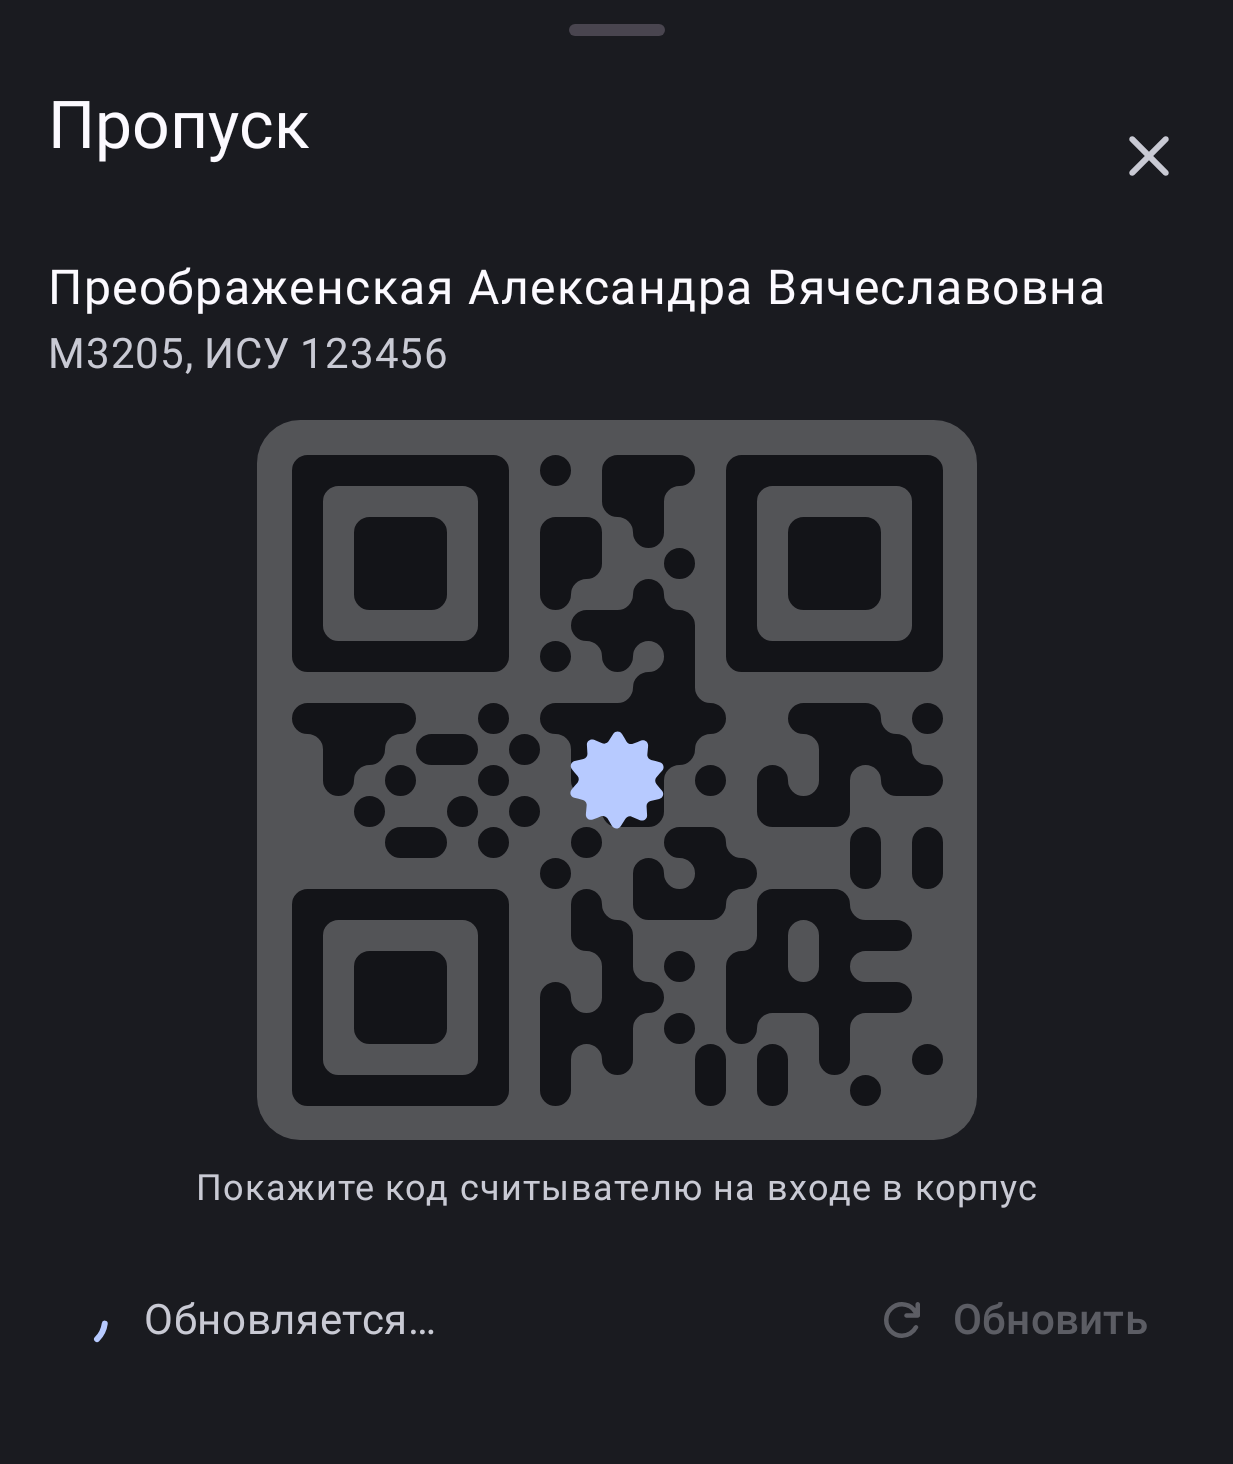
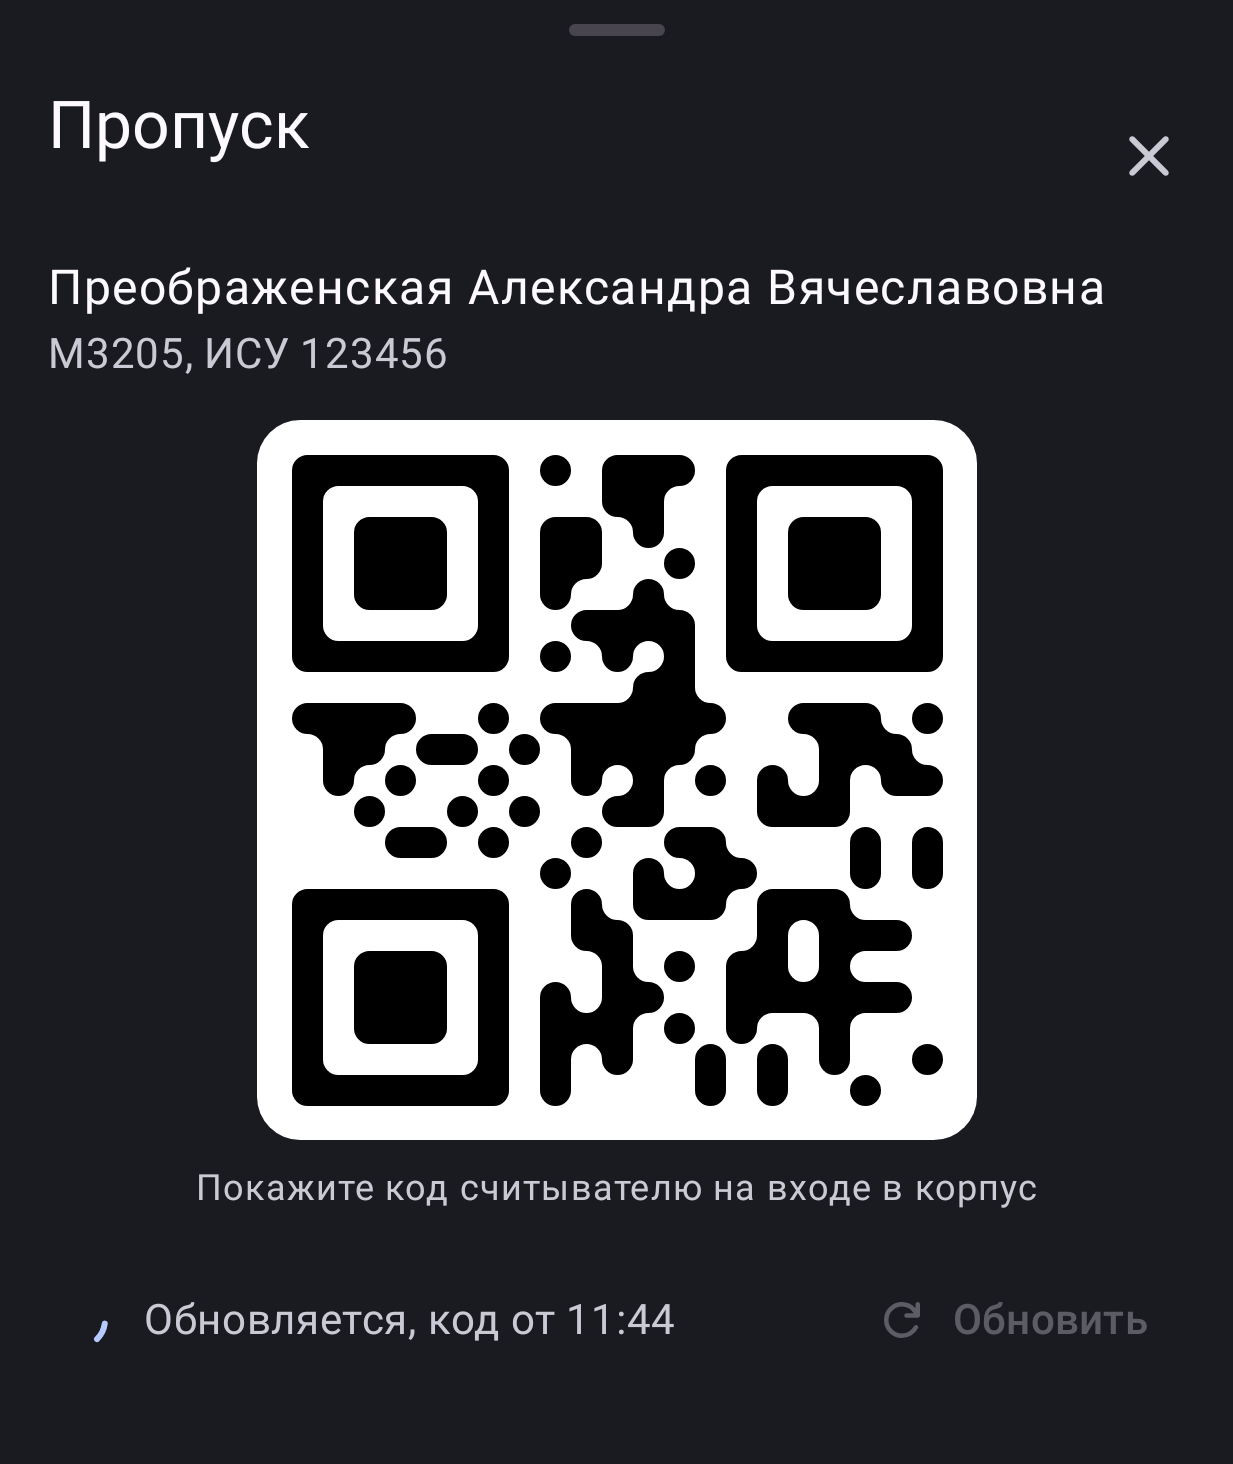
Keep the QR pass readable while it refreshes

Changed region(s): [[0.1849, 0.2766, 0.8013, 0.7992], [0.4623, 0.8914, 0.5547, 0.9221], [0.339, 0.8914, 0.4315, 0.9221]]

diff --git a/shared/feature-qr/src/androidMain/kotlin/dev/alllexey/itmowidgets/feature/qr/ui/QrPassSheet.kt b/shared/feature-qr/src/androidMain/kotlin/dev/alllexey/itmowidgets/feature/qr/ui/QrPassSheet.kt
@@ -24,7 +24,6 @@ import androidx.compose.runtime.key
 import androidx.compose.runtime.remember
 import androidx.compose.ui.Alignment
 import androidx.compose.ui.Modifier
-import androidx.compose.ui.draw.alpha
 import androidx.compose.ui.graphics.graphicsLayer
 import androidx.compose.ui.layout.layout
 import androidx.compose.ui.platform.testTag
@@ -38,7 +37,6 @@ import androidx.compose.ui.unit.dp
 import dev.alllexey.itmowidgets.core.text.asString
 import dev.alllexey.itmowidgets.core.text.toUiText
 import dev.alllexey.itmowidgets.designsystem.components.controls.ItmoActivityIndicator
-import dev.alllexey.itmowidgets.designsystem.components.expressive.ItmoLoadingIndicator
 import dev.alllexey.itmowidgets.designsystem.components.sheets.SheetClose
 import dev.alllexey.itmowidgets.designsystem.components.sheets.SheetScaffold
 import dev.alllexey.itmowidgets.designsystem.components.state.ContentState
@@ -88,13 +86,14 @@ object QrPassTestTags {
 
 /**
  * The pass sheet: the title with a close button, who the pass belongs to, a square area of at most [AreaMaxSize] with
- * the code (dimmed under the loading indicator while a new one loads), the empty or error state, the instruction
- * under the code and one line: when the code was loaded, or that it is the last one while there is no network, with
- * `Обновить` at its end. No validity or countdown. Stateless; [QrPassRoute] feeds it.
+ * the code, the loading indicator or the empty or error state, the instruction under the code and one line: when the
+ * code was loaded, that a new one is loading, or that it is the last one while there is no network, with `Обновить`
+ * at its end. No validity or countdown. Stateless; [QrPassRoute] feeds it.
  *
- * The code is the flow's hero: one that arrives while the sheet is open grows and fades in on
- * [ItmoTheme.heroMotionScheme]; a code already there on the first frame, and every code under reduced motion, shows at
- * once.
+ * While a new code loads the shown one stays as it is, with nothing drawn over it, so a turnstile still reads it; only
+ * the line shows the progress. The code is the flow's hero: one that arrives into an empty area while the sheet is
+ * open grows and fades in on [ItmoTheme.heroMotionScheme]; a code that replaces another, one already there on the
+ * first frame and every code under reduced motion show at once.
  */
 @Composable
 fun QrPassSheetContent(
@@ -141,21 +140,24 @@ private fun Holder(state: QrPassUiState) {
 private fun PassArea(state: QrPassUiState, onRefresh: () -> Unit) {
     val code = state.code
     val matrix = rememberQrMatrix(code?.hex)
-    val firstFrame = remember { FirstFrame() }
-    SideEffect { firstFrame.passed = true }
+    val shown = remember { ShownCodes() }
+    val drawsCode = code != null && matrix != null
+    SideEffect {
+        shown.firstFramePassed = true
+        if (drawsCode) shown.any = true
+    }
     Column(Modifier.fillMaxWidth(), horizontalAlignment = Alignment.CenterHorizontally) {
         Box(Modifier.passArea().testTag(QrPassTestTags.AREA), contentAlignment = Alignment.Center) {
             val status = state.status
             when {
                 code != null && matrix != null -> key(code.hex) {
                     val description = stringResource(Res.string.qr_pass_image_description)
-                    val reveal = rememberHeroReveal(animate = firstFrame.passed)
+                    val reveal = rememberHeroReveal(animate = shown.firstFramePassed && !shown.any)
                     QrCodeImage(
                         matrix,
                         qrColors(code.useDynamicColors),
                         Modifier
                             .fillMaxSize()
-                            .alpha(if (status == QrPassStatus.Refreshing) REFRESHING_ALPHA else 1f)
                             .heroReveal(reveal)
                             .testTag(QrPassTestTags.IMAGE)
                             .semantics {
@@ -163,7 +165,6 @@ private fun PassArea(state: QrPassUiState, onRefresh: () -> Unit) {
                                 role = Role.Image
                             },
                     )
-                    if (status == QrPassStatus.Refreshing) ItmoLoadingIndicator()
                 }
                 code != null -> PassState(
                     stringResource(Res.string.common_load_error_title),
@@ -182,7 +183,7 @@ private fun PassArea(state: QrPassUiState, onRefresh: () -> Unit) {
                 else -> ContentStateLoading(Modifier.testTag(QrPassTestTags.LOADING), ContentStateSize.Compact)
             }
         }
-        if (code != null && matrix != null) {
+        if (drawsCode) {
             Text(
                 stringResource(Res.string.qr_pass_description),
                 Modifier.fillMaxWidth().padding(top = ItmoTheme.spacing.compact),
@@ -194,7 +195,7 @@ private fun PassArea(state: QrPassUiState, onRefresh: () -> Unit) {
     }
 }
 
-/** When the code was loaded, with `Обновить` at the end; only under a code. */
+/** When the code was loaded or that a new one is loading, with `Обновить` at the end; only under a code. */
 @Composable
 private fun StatusLine(status: QrPassStatus, onRefresh: () -> Unit) {
     val line = status.line ?: return
@@ -205,7 +206,7 @@ private fun StatusLine(status: QrPassStatus, onRefresh: () -> Unit) {
         horizontalArrangement = Arrangement.spacedBy(ItmoTheme.spacing.content),
     ) {
         when (status) {
-            QrPassStatus.Refreshing -> ItmoActivityIndicator()
+            is QrPassStatus.Refreshing -> ItmoActivityIndicator()
             is QrPassStatus.Offline -> Icon(painterResource(KitRes.drawable.ic_cloud_off), null, tint = muted)
             else -> Icon(painterResource(KitRes.drawable.ic_history), null, tint = muted)
         }
@@ -218,7 +219,7 @@ private fun StatusLine(status: QrPassStatus, onRefresh: () -> Unit) {
         TextButton(
             onClick = onRefresh,
             modifier = Modifier.testTag(QrPassTestTags.REFRESH),
-            enabled = status != QrPassStatus.Refreshing,
+            enabled = status !is QrPassStatus.Refreshing,
         ) {
             Icon(painterResource(KitRes.drawable.ic_refresh), null, Modifier.size(ButtonIconSize))
             Text(
@@ -247,9 +248,13 @@ private fun PassState(title: String, description: String, action: ContentStateAc
     )
 }
 
-/** False until the sheet's first composition is applied; a code composed before that needs no reveal. */
-private class FirstFrame {
-    var passed = false
+/**
+ * What the area has drawn so far: a code composed before the first frame is applied needs no reveal, and neither does
+ * one that replaces a code already shown, so a refreshed pass never fades out of a turnstile's reach.
+ */
+private class ShownCodes {
+    var firstFramePassed = false
+    var any = false
 }
 
 /** Scale and alpha of a code's reveal, at their end values when nothing animates. */
@@ -305,9 +310,6 @@ private fun Modifier.passArea(): Modifier = layout { measurable, constraints ->
 private const val AREA_WIDTH_FRACTION = 0.8f
 private val AreaMaxSize = 240.dp
 private val ButtonIconSize = 18.dp
-
-/** The old code under the loading indicator while a new one loads. */
-private const val REFRESHING_ALPHA = 0.25f
 
 /** Where a revealed code starts growing from, as a fraction of its size. */
 private const val REVEAL_START_SCALE = 0.85f

diff --git a/shared/feature-qr/src/androidHostTest/kotlin/dev/alllexey/itmowidgets/feature/qr/ui/QrPassSheetTest.kt b/shared/feature-qr/src/androidHostTest/kotlin/dev/alllexey/itmowidgets/feature/qr/ui/QrPassSheetTest.kt
@@ -75,8 +75,9 @@ class QrPassSheetTest {
         onNodeWithTag(QrPassTestTags.REFRESH).assertIsEnabled().performClick()
         onNodeWithContentDescription("Закрыть").performClick()
 
-        state = QrPassUiState(code = Code, status = QrPassStatus.Refreshing)
+        state = QrPassUiState(code = Code, status = QrPassStatus.Refreshing("11:44"))
         waitForIdle()
+        onNodeWithTag(QrPassTestTags.LINE).assertTextEquals("Обновляется, код от 11:44")
         onNodeWithTag(QrPassTestTags.REFRESH).assertIsNotEnabled()
 
         state = QrPassUiState(code = Code, status = QrPassStatus.Offline("11:44"))
@@ -110,14 +111,13 @@ class QrPassSheetTest {
     }
 
     @Test
-    fun aCodeThatArrivesGrowsInAndOneThereFromTheStartShowsAtOnce() = runComposeUiTest {
-        var state by mutableStateOf(QrPassUiState(code = Code, status = QrPassStatus.Ready("11:44")))
+    fun aCodeThatArrivesIntoAnEmptyAreaGrowsIn() = runComposeUiTest {
+        var state by mutableStateOf(QrPassUiState())
         mainClock.autoAdvance = false
         setContent { ItmoTheme { QrPassSheetContent(state, onRefresh = {}, onClose = {}) } }
         mainClock.advanceTimeByFrame()
-        assertImageFillsTheArea("a code on the first frame")
 
-        state = QrPassUiState(code = QrPassCode("ITMO-NEXT", false), status = QrPassStatus.Ready("11:45"))
+        state = QrPassUiState(code = Code, status = QrPassStatus.Ready("11:44"))
         Snapshot.sendApplyNotifications()
         mainClock.advanceTimeByFrame()
         mainClock.advanceTimeByFrame()
@@ -127,6 +127,27 @@ class QrPassSheetTest {
 
         mainClock.advanceTimeBy(REVEAL_SETTLE_MILLIS)
         assertImageFillsTheArea("a revealed code")
+    }
+
+    @Test
+    fun aRefreshKeepsTheCodeWholeAndSwapsTheNewOneInPlace() = runComposeUiTest {
+        var state by mutableStateOf(QrPassUiState(code = Code, status = QrPassStatus.Ready("11:44")))
+        mainClock.autoAdvance = false
+        setContent { ItmoTheme { QrPassSheetContent(state, onRefresh = {}, onClose = {}) } }
+        mainClock.advanceTimeByFrame()
+        assertImageFillsTheArea("a code on the first frame")
+
+        state = QrPassUiState(code = Code, status = QrPassStatus.Refreshing("11:44"))
+        Snapshot.sendApplyNotifications()
+        mainClock.advanceTimeByFrame()
+        assertImageFillsTheArea("the code while a new one loads")
+        onNodeWithTag(QrPassTestTags.LOADING).assertDoesNotExist()
+
+        state = QrPassUiState(code = QrPassCode("ITMO-NEXT", false), status = QrPassStatus.Ready("11:45"))
+        Snapshot.sendApplyNotifications()
+        mainClock.advanceTimeByFrame()
+        mainClock.advanceTimeByFrame()
+        assertImageFillsTheArea("the new code at once")
     }
 
     private fun ComposeUiTest.assertImageFillsTheArea(message: String) {
@@ -144,7 +165,7 @@ class QrPassSheetTest {
         val States = listOf(
             "loading" to QrPassUiState(),
             "ready" to QrPassUiState(code = Code, status = QrPassStatus.Ready("11:44")),
-            "refreshing" to QrPassUiState(code = Code, status = QrPassStatus.Refreshing),
+            "refreshing" to QrPassUiState(code = Code, status = QrPassStatus.Refreshing("11:44")),
             "dynamic" to QrPassUiState(code = Code.copy(useDynamicColors = true), status = QrPassStatus.Ready("11:44")),
             "empty" to QrPassUiState(status = QrPassStatus.Empty),
             "error" to QrPassUiState(status = QrPassStatus.Failed(AppError.Network)),

diff --git a/iosApp/Sources/Features/Qr/QrPassSheet.swift b/iosApp/Sources/Features/Qr/QrPassSheet.swift
@@ -100,9 +100,9 @@ struct QrPassContent: View {
     private var area: some View {
         if let code = state.code, let matrix = QrPassMatrix.rows(hex: code.hex) {
             VStack(spacing: ItmoSpacing.compact) {
+                // While a new code loads, the shown one stays as it is with nothing over it, so a turnstile still
+                // reads it; the status line shows the progress and the new code replaces it in place.
                 QrPassCodeView(matrix: matrix, dynamicColors: code.useDynamicColors, dark: colorScheme == .dark)
-                    .opacity(isRefreshing ? 0.25 : 1)
-                    .overlay { if isRefreshing { ProgressView().controlSize(.large) } }
                 Text(verbatim: AppStrings.string("qr_pass_description"))
                     .font(.itmo(.bodySmall))
                     .foregroundStyle(.secondary)
@@ -133,7 +133,7 @@ struct QrPassContent: View {
         }
     }
 
-    /// When the code was loaded, with the refresh button at the end; only under a code.
+    /// When the code was loaded or that a new one is loading, with the refresh button at the end; only under a code.
     @ViewBuilder
     private var statusLine: some View {
         if let line = state.status.line {

diff --git a/shared/feature-qr/src/commonTest/kotlin/dev/alllexey/itmowidgets/feature/qr/presentation/QrPassViewModelTest.kt b/shared/feature-qr/src/commonTest/kotlin/dev/alllexey/itmowidgets/feature/qr/presentation/QrPassViewModelTest.kt
@@ -66,14 +66,15 @@ class QrPassViewModelTest {
     }
 
     @Test
-    fun anOldCodeStaysDimmedWhileANewOneLoads() = runTest(main.dispatcher) {
+    fun anOldCodeStaysWithItsTimeWhileANewOneLoads() = runTest(main.dispatcher) {
         clock.advanceBy(2.hours)
         repository.pending = CompletableDeferred()
         val vm = viewModel()
         vm.start()
         runCurrent()
 
-        assertEquals(QrPassStatus.Refreshing, vm.uiState.value.status)
+        assertEquals(QrPassStatus.Refreshing("11:44"), vm.uiState.value.status)
+        assertEquals(UiText.Res(QrStrings.qr_pass_refreshing, listOf("11:44")), vm.uiState.value.status.line)
         assertEquals("ITMO-TEST", vm.uiState.value.code?.hex)
         repository.last = QrCodeSnapshot("ITMO-NEW", clock.now().toEpochMilliseconds())
         repository.pending!!.complete(AppResult.Success(Unit))

diff --git a/shared/feature-qr/src/commonMain/kotlin/dev/alllexey/itmowidgets/feature/qr/presentation/QrPassUiState.kt b/shared/feature-qr/src/commonMain/kotlin/dev/alllexey/itmowidgets/feature/qr/presentation/QrPassUiState.kt
@@ -27,9 +27,12 @@ sealed interface QrPassStatus {
     /** Nothing loaded yet and no cached code. */
     data object Loading : QrPassStatus
 
-    /** A new code is on its way; the old one stays dimmed under the indicator. */
-    data object Refreshing : QrPassStatus {
-        override val line: UiText get() = UiText.Res(QrStrings.qr_pass_refreshing)
+    /**
+     * A new code is on its way while the code loaded at [time] stays on the sheet as it is, nothing over it, so a
+     * turnstile still reads it; the new one replaces it in place.
+     */
+    data class Refreshing(val time: String) : QrPassStatus {
+        override val line: UiText get() = UiText.Res(QrStrings.qr_pass_refreshing, listOf(time))
     }
 
     /** The code loaded at [time] (`11:44`, or `1 сент., 11:44` on another day). */

diff --git a/iosApp/Tests/SnapshotTests/Features/QrPassSheetSnapshotTests.swift b/iosApp/Tests/SnapshotTests/Features/QrPassSheetSnapshotTests.swift
@@ -15,9 +15,9 @@ final class QrPassSheetSnapshotTests: XCTestCase {
         assertSheet(QrPassUiState(holder: holder, code: code, status: QrPassStatusReady(time: "11:44")), named: "ready")
     }
 
-    /// A layer render: the spinners would turn between two window renders.
+    /// A layer render: the spinner would turn between two window renders. The code stays whole, the line spins.
     func testRefreshing() {
-        let state = QrPassUiState(holder: holder, code: code, status: QrPassStatusRefreshing.shared)
+        let state = QrPassUiState(holder: holder, code: code, status: QrPassStatusRefreshing(time: "11:44"))
         let content = QrPassContent(state: state).padding(ItmoKit.margin)
         assertAppearances(of: content, named: "refreshing", appearances: [.light, .dark])
     }

diff --git a/shared/feature-qr/src/commonMain/kotlin/dev/alllexey/itmowidgets/feature/qr/presentation/QrPassViewModel.kt b/shared/feature-qr/src/commonMain/kotlin/dev/alllexey/itmowidgets/feature/qr/presentation/QrPassViewModel.kt
@@ -85,7 +85,7 @@ class QrPassViewModel(
                     code = last?.let { code -> QrPassCode(code.hex, dynamicColors) },
                     status = when {
                         last == null -> QrPassStatus.Loading
-                        asks -> QrPassStatus.Refreshing
+                        asks -> QrPassStatus.Refreshing(timeOf(last))
                         else -> QrPassStatus.Ready(timeOf(last))
                     },
                 )

diff --git a/shared/feature-qr/src/androidMain/kotlin/dev/alllexey/itmowidgets/feature/qr/ui/QrPassSheetPreviews.kt b/shared/feature-qr/src/androidMain/kotlin/dev/alllexey/itmowidgets/feature/qr/ui/QrPassSheetPreviews.kt
@@ -34,7 +34,7 @@ internal class QrPassSheetRefreshingPreview {
     @Preview(name = "refreshing")
     @Composable
     fun QrPassSheet() = SheetSurface {
-        QrPassSheetContent(QrPassUiState(Holder, Code, QrPassStatus.Refreshing), onRefresh = {}, onClose = {})
+        QrPassSheetContent(QrPassUiState(Holder, Code, QrPassStatus.Refreshing("11:44")), onRefresh = {}, onClose = {})
     }
 }
 

diff --git a/docs/how-it-works/qr.md b/docs/how-it-works/qr.md
@@ -24,6 +24,9 @@
   наше правило кэша: сам пропуск ИТМО сбрасывается примерно через сутки после
   первого прохода через турникет. Сколько действует код, мы не знаем, поэтому
   ни срока, ни обратного отсчёта нет.
+- Пока грузится новый код, старый остаётся в шторке целиком, ничем не закрыт и
+  читается турникетом; строка под ним пишет «Обновляется, код от 11:44», а новый
+  код встаёт на место старого.
 - Без сети остаётся последний код с подписью «Нет сети, показан код от 11:44».
   Виджет код старше 60 минут не показывает.
 - «Обновить» всегда идёт в My ITMO. Если обновить не удалось, старый код

diff --git a/docs/features/qr.md b/docs/features/qr.md
@@ -14,7 +14,9 @@ the tile.
   and the widgets open the same sheet: `ACTION_OPEN_QR_PASS` becomes Сегодня with the sheet above it
   (`EntryRouteParser`).
 - The sheet shows who the pass belongs to (the session's name and ISU, the group from Backend when connected), the
-  code and one status line (updated at, updating, or offline with the time of the shown code). There is no validity
+  code and one status line (updated at, updating, or offline, each with the time of the shown code). While a new code
+  loads, the shown one stays whole with nothing drawn over it, so a turnstile still reads it; only the status line
+  spins (`QrPassStatus.Refreshing`), and the new code replaces the old one in place. There is no validity
   and no countdown: the 60 minutes below are our cache rule, while ITMO's pass itself resets about a day after its
   first turnstile use, so no expiry the app could show is known.
 - `QrPassViewModel` runs only while the sheet is started (`start()`/`stop()`). It shows the last code at once whatever

diff --git a/docs/design.md b/docs/design.md
@@ -488,8 +488,9 @@ wrappers only; a new screen follows the rules below.
 - **At most two hero moments per flow.** Only a hero gets expressive motion,
   wavy progress, emphasized display type or a `MaterialShapes` mask (the
   profile avatar only). A list row never does. The heroes:
-  - the QR pass: a code that arrives while the screen is open grows and fades
-    in on the hero motion scheme (`QrPassSheetContent`);
+  - the QR pass: a code that arrives into an empty area while the screen is
+    open grows and fades in on the hero motion scheme (`QrPassSheetContent`); a
+    refreshed code replaces the shown one at once, which never dims;
   - the lesson in progress on home, the home flow's second hero: its elapsed
     share is `ItmoWavyProgress`; every other schedule row keeps plain type and
     no progress;

diff --git a/CHANGELOG.md b/CHANGELOG.md
@@ -301,6 +301,8 @@ on Android and native SwiftUI screens in a new iOS app. Android keeps the featur
 
 ### Fixes
 
+- The QR pass stays readable while it refreshes: the shown code is no longer dimmed or covered by a spinner, the
+  line under it says `Обновляется, код от 11:44`, and the new code replaces the old one in place, on Android and iOS.
 - `Устройства`: `Отключить` ends the client's ITMO.ID session every time (MyItmoApi 2.3.1 accepts session ids with
   `_`); earlier sign-ins of the same phone no longer show as other devices; this phone is named as in its settings;
   the screen reloads a moment after a change; the pull indicator is no longer cut by the header.
